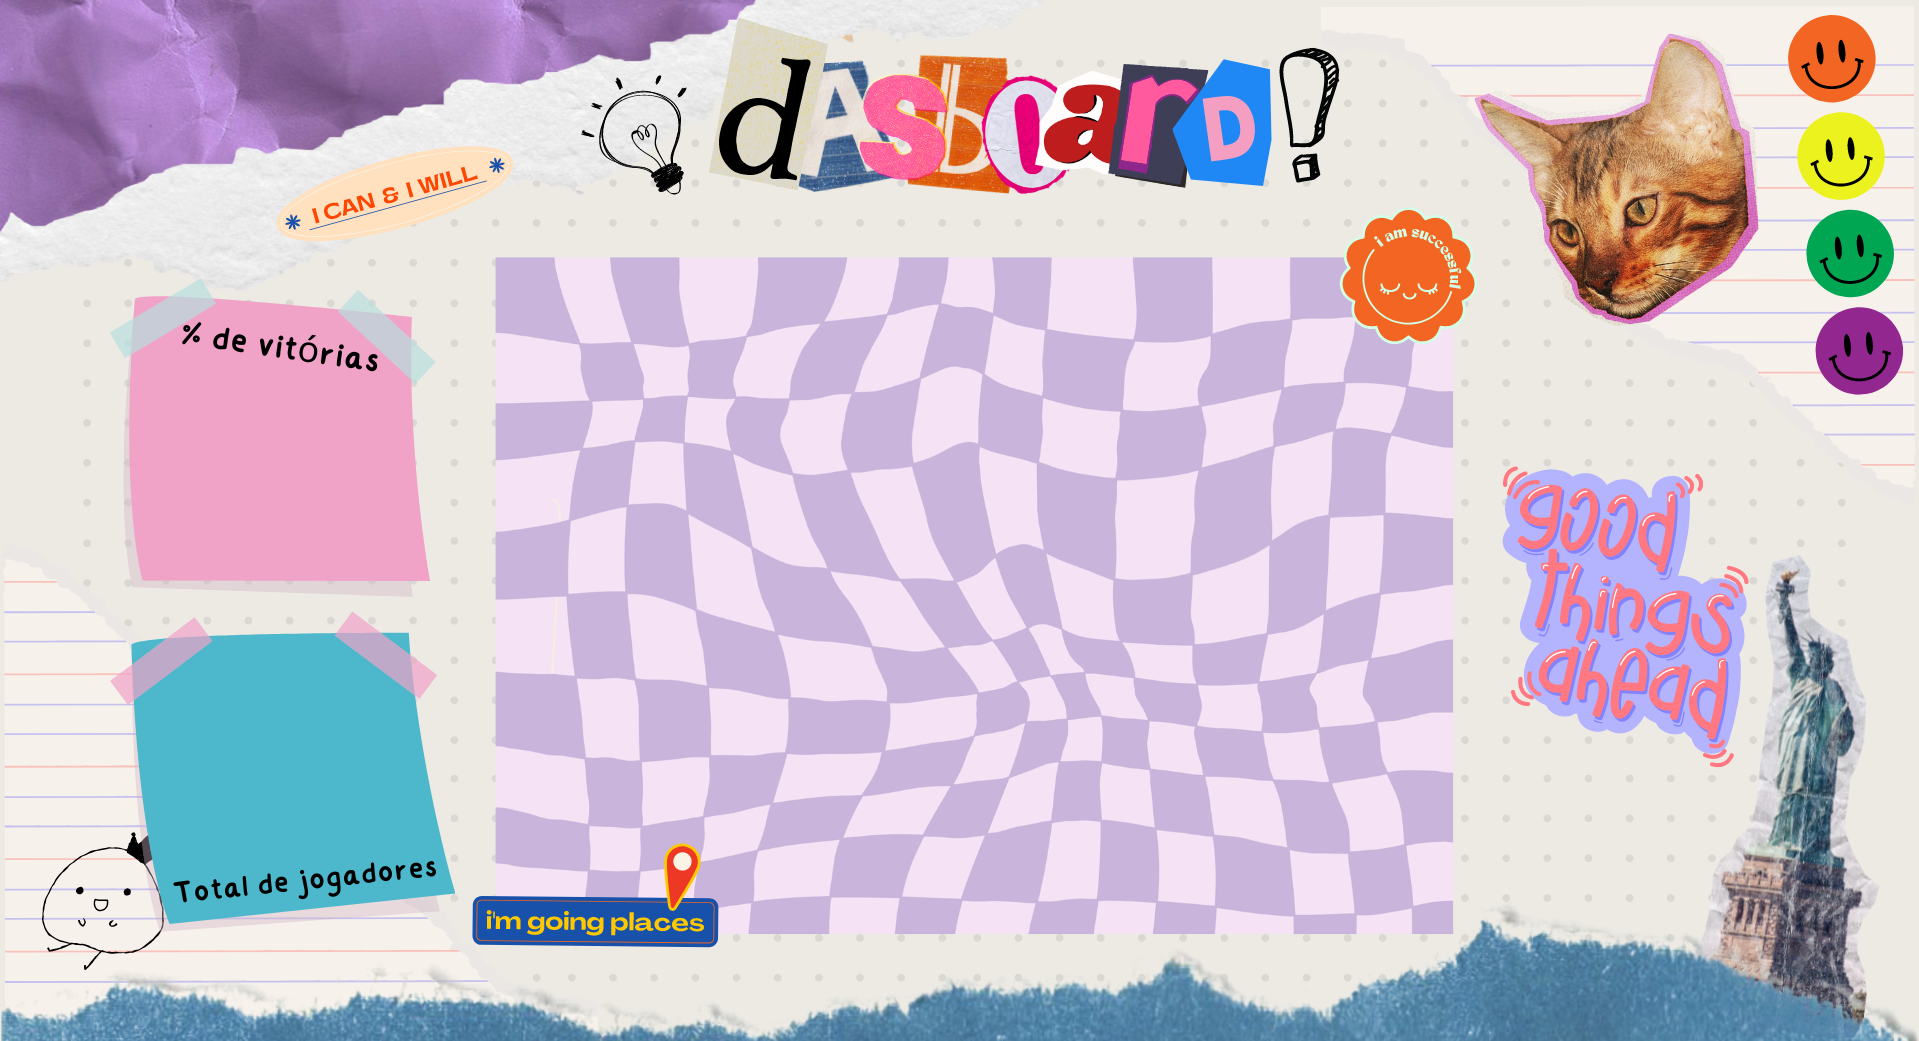
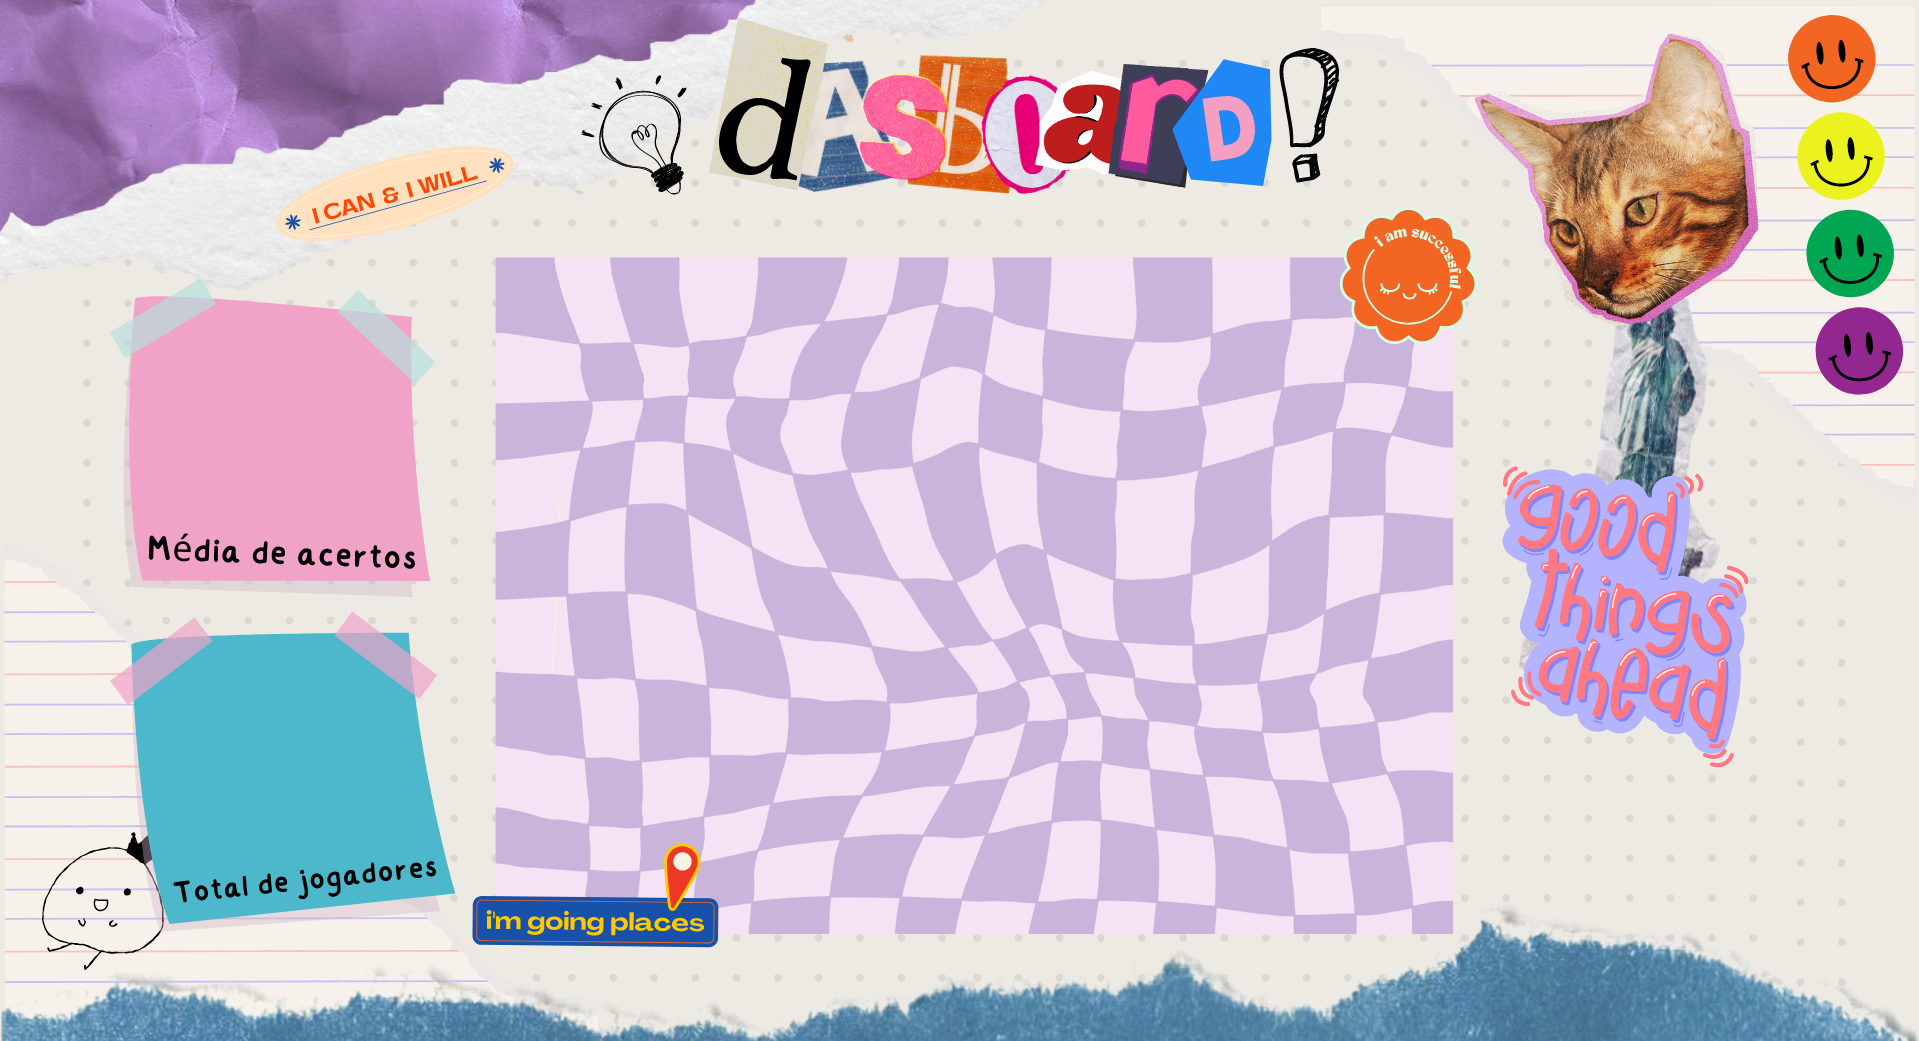
fix dashboard

diff --git a/pasta_de_dados/dasboard.js b/pasta_de_dados/dasboard.js
@@ -1,7 +1,3 @@
-// Dados iniciais (Exemplo)
-let winPercentage = 75; // Porcentagem de vitórias
-let totalPlayers = 100; // Total de jogadores
-let attemptsData = [5, 10, 15, 20, 25, 30, 35]; // Número de tentativas ao longo dos dias da semana
 
 // Configuração do gráfico
 const ctx = document.getElementById('myChart').getContext('2d');
@@ -11,7 +7,7 @@ const myChart = new Chart(ctx, {
         labels: ['Domingo', 'Segunda', 'Terça', 'Quarta', 'Quinta', 'Sexta', 'Sábado'],
         datasets: [{
             label: 'Número de Tentativas',
-            data: attemptsData,
+            data: [],
             backgroundColor: 'rgba(555, 192, 392, 0.9)',
             borderColor: 'rgba(575, 92, 192)',
             borderRadius: 10,
@@ -28,29 +24,44 @@ const myChart = new Chart(ctx, {
 });
 
 // Atualização das KPI's
-function updateKPIs() {
-    document.getElementById('winPercentage').innerText = `${winPercentage}%`;
+function updateKPIs(correctPercentage, totalPlayers) {
+    document.getElementById('correctPercentage').innerText = `${correctPercentage}%`;
     document.getElementById('totalPlayers').innerText = `${totalPlayers}`;
 }
 
-// Função para simular atualização de dados (Exemplo)
-function fetchData() {
-    // Aqui você deve adicionar o código para buscar os dados reais do servidor
-    // Simulação de atualização de dados:
-    winPercentage = Math.floor(Math.random() * 100);
-    totalPlayers += Math.floor(Math.random() * 10);
-    attemptsData = attemptsData.map(attempt => attempt + Math.floor(Math.random() * 5));
-    
-    // Atualizar gráfico
-    myChart.data.datasets[0].data = attemptsData;
-    myChart.update();
+// Função para buscar dados do servidor
+async function fetchQuizData() {
+    try {
+        const response = await fetch('http://localhost:3333/quizData');
+        const data = await response.json();
+        
+        console.log('Dados recebidos:', data);
+        
+        const correctPercentage = data.correctPercentage;
+        const totalPlayers = data.totalPlayers;
+        
+        let attemptsData;
+        try {
+            // Tente parsear attemptsData se for uma string JSON
+            attemptsData = JSON.parse(data.attemptsData);
+        } catch (e) {
+            // Se falhar, use diretamente
+            attemptsData = data.attemptsData;
+        }
+        console.log('Tentativas Diárias:', attemptsData); // Log para verificar o conteúdo de attemptsData
 
-    // Atualizar KPI's
-    updateKPIs();
+        // Atualizar gráfico
+        myChart.data.datasets[0].data = attemptsData;
+        myChart.update();
+
+        // Atualizar KPI's
+        updateKPIs(correctPercentage, totalPlayers);
+    } catch (error) {
+        console.error('Erro ao buscar dados do quiz:', error);
+    }
 }
 
-// Atualizar dados a cada 5 segundos (5000 milissegundos)
-setInterval(fetchData, 5000);
-
-// Atualização inicial das KPI's
-updateKPIs();
+// Chame a função para buscar os dados ao carregar a página
+document.addEventListener('DOMContentLoaded', (event) => {
+    fetchQuizData();
+});

diff --git a/pasta_de_dados/app.js b/pasta_de_dados/app.js
@@ -2,9 +2,6 @@
 var ambiente_processo = 'desenvolvimento';
 
 var caminho_env = ambiente_processo === 'producao' ? '.env' : '.env.dev';
-// Acima, temos o uso do operador ternário para definir o caminho do arquivo .env
-// A sintaxe do operador ternário é: condição ? valor_se_verdadeiro : valor_se_falso
-
 require("dotenv").config({ path: caminho_env });
 
 var express = require("express");
@@ -19,7 +16,6 @@ var app = express();
 
 var indexRouter = require("./src/routes/index");
 var usuarioRouter = require("./src/routes/usuarios");
-// var blogRouter = require("./src/routes/blogRoutes");
 
 app.use(express.json());
 app.use(express.urlencoded({ extended: false }));
@@ -30,7 +26,6 @@ app.use(bodyParser.json());
 
 app.use("/", indexRouter);
 app.use("/usuarios", usuarioRouter);
-// app.use("/blogRoutes", blogRouter);
 
 const db = mysql.createConnection({
     host: 'localhost',
@@ -47,7 +42,6 @@ db.connect(err => {
     console.log('Conectado ao banco de dados.');
 });
 
-
 app.post('/saveQuizResults', (req, res) => {
     const {quizId, userId, correctAnswers } = req.body;
     const sql = 'INSERT INTO quiz_results (fkQuiz, fkUsuario, resposta_correta) VALUES (?, ?, ?)';
@@ -61,23 +55,21 @@ app.post('/saveQuizResults', (req, res) => {
         res.json({ message: 'Resultados salvos com sucesso!' });
     });
 });
-//----------------------------------------------------------------------------------------------------------------
 
-// Rota para obter os dados do quiz
 app.get('/quizData', (req, res) => {
     const sql = `
-        SELECT
-            (SELECT COUNT(*) FROM quiz_results WHERE resposta_correta = 1) / COUNT(*) * 100 AS correctPercentage,
-            (SELECT COUNT(DISTINCT fkUsuario) FROM quiz_results) AS totalPlayers,
-            (
-                SELECT JSON_ARRAYAGG(count)
-                FROM (
-                    SELECT COUNT(*) AS count
-                    FROM quiz_results
-                    GROUP BY DAYOFWEEK(createdAt)
-                ) AS dailyAttempts
-            ) AS attemptsData
-        FROM quiz_results
+    SELECT
+    ROUND((SUM(resposta_correta) / COUNT(*)) * 10) AS correctPercentage,
+    (SELECT COUNT(DISTINCT idUsuario) FROM usuario) AS totalPlayers,
+    (
+        SELECT JSON_ARRAYAGG(count)
+        FROM (
+            SELECT COUNT(*) AS count
+            FROM quiz_results
+            GROUP BY DAYOFWEEK(data_registro)
+        ) AS dailyAttempts
+    ) AS attemptsData
+FROM quiz_results;
     `;
     db.query(sql, (err, result) => {
         if (err) {
@@ -85,10 +77,10 @@ app.get('/quizData', (req, res) => {
             res.status(500).send('Erro ao buscar dados');
             return;
         }
+        console.log('Dados do quiz:', result);
         res.json(result[0]);
     });
 });
-
 
 app.listen(PORTA_APP, function () {
     console.log(`

diff --git a/public/assets/js/dasboard.js b/public/assets/js/dasboard.js
@@ -29,13 +29,19 @@ function updateKPIs(correctPercentage, totalPlayers) {
     document.getElementById('totalPlayers').innerText = `${totalPlayers}`;
 }
 
+// Atualização das KPI's
+function updateKPIs(correctPercentage, totalPlayers) {
+    document.getElementById('correctPercentage').innerText = `${correctPercentage}%`;
+    document.getElementById('totalPlayers').innerText = `${totalPlayers}`;
+}
+
 // Função para buscar dados do servidor
 async function fetchQuizData() {
     try {
         const response = await fetch('http://localhost:3333/quizData'); 
         const data = await response.json();
         
-        console.log('Dados recebidos:', data); 
+        console.log('Dados recebidos:', data); // Verifique os dados recebidos
         
         const correctPercentage = data.correctPercentage;
         const totalPlayers = data.totalPlayers;
@@ -48,6 +54,8 @@ async function fetchQuizData() {
             // Se falhar, use diretamente
             attemptsData = data.attemptsData;
         }
+
+        console.log('Tentativas Diárias:', attemptsData);
 
         // Atualizar gráfico
         myChart.data.datasets[0].data = attemptsData;

diff --git a/app.js b/app.js
@@ -59,7 +59,7 @@ app.post('/saveQuizResults', (req, res) => {
 app.get('/quizData', (req, res) => {
     const sql = `
     SELECT
-    ROUND((SELECT COUNT(*) FROM quiz_results WHERE resposta_correta) / COUNT(*) * 100, 2) AS correctPercentage,
+    ROUND((SUM(resposta_correta) / COUNT(*)) * 10) AS correctPercentage,
     (SELECT COUNT(DISTINCT idUsuario) FROM usuario) AS totalPlayers,
     (
         SELECT JSON_ARRAYAGG(count)
@@ -70,7 +70,6 @@ app.get('/quizData', (req, res) => {
         ) AS dailyAttempts
     ) AS attemptsData
 FROM quiz_results;
-
     `;
     db.query(sql, (err, result) => {
         if (err) {

diff --git a/pasta_de_dados/dashboard.html b/pasta_de_dados/dashboard.html
@@ -22,8 +22,8 @@
     </nav>
     <div class="dashboard">
         <div class="kpis">
-            <div id="winPercentage" class="kpi">% de vitórias: 0%</div>
-            <div id="totalPlayers" class="kpi">Total de jogadores: 0</div>
+            <div id="correctPercentage" class="kpi"></div>
+            <div id="totalPlayers" class="kpi"></div>
         </div>
         <div class="chart-container">
             <canvas id="myChart"></canvas>

diff --git a/public/quiz.html b/public/quiz.html
@@ -60,7 +60,7 @@
                 correct: 0
             },
             {
-                question: "Em qual console SackBoy: A big adventure foi lançado?",
+                question: "Em qual console SackBoy: A big adventure  foi lançado?",
                 answers: ["Xbox Series X", "PlayStation 4", "PSVITA", "PlayStation 5"],
                 correct: 3
             },

diff --git a/pasta_de_dados/dashboard.css b/pasta_de_dados/dashboard.css
@@ -41,7 +41,7 @@
   }
   
   .navbar a {
-    font-family: 'Inter', sans-serif; /* Usando a fonte INTER */
+    font-family: 'Inter', sans-serif; 
     font-size: 20px;
     text-decoration: none;
     font-weight: bold;

diff --git a/public/cadastro-lbp.html b/public/cadastro-lbp.html
@@ -9,7 +9,6 @@
     <title>Cadastro</title>
     <link rel="stylesheet" href="./assets/css/cadastro.css">
     <link rel="icon" href="./imagens/sun.png" type="image/png">
-
 </head>
 <body>
     <nav class="navbar">

diff --git a/public/index.html b/public/index.html
@@ -27,7 +27,6 @@
     </div>
 </body>
 </html>
-
 <script>
     function entrar(){
         window.location.href = "./explore.html";
